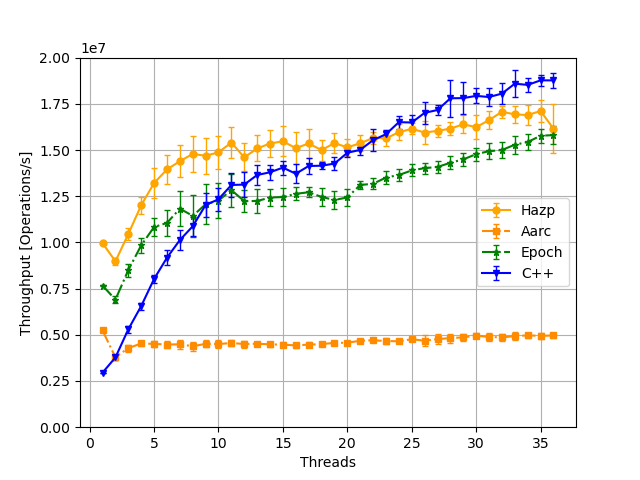
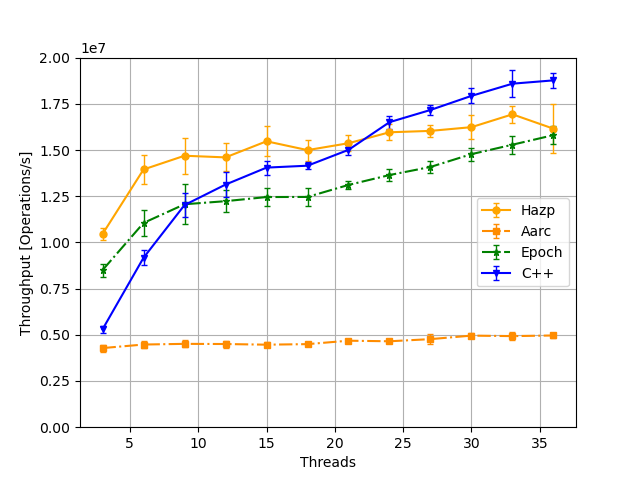
Change stride length for pairwise graphs

diff --git a/scripts/plotter.py b/scripts/plotter.py
@@ -11,6 +11,9 @@ LOG_OPS = 8
 # Values are not greater than this, used for correct y-scale
 Y_MAX = 0.2*(10**LOG_OPS)
 
+# The stride length for the pairwise graphs (to match MPMC better)
+STRIDE = 3
+
 # Used for scaling x-axis, perhpas for future use
 # MAX_THREADS = 36
 
@@ -82,7 +85,6 @@ def unique_parameter(benchmark):
         )
     [(name, value)] = params_dict.items()
     return (name, float(value))
-
 
 def main():
     parser = argparse.ArgumentParser(description=__doc__)
@@ -156,6 +158,12 @@ def main():
         else:
             color = 'blue'
             fmt = '-v'
+        
+        # Exclude uneven threads (x-axis)
+        if "pairwise" in filename:
+            mean = [mean[i] for i in range(len(parameter_values)) if parameter_values[i] % STRIDE == 0]
+            stddev = [stddev[i] for i in range(len(parameter_values)) if parameter_values[i] % STRIDE == 0]
+            parameter_values = [t for t in parameter_values if t % STRIDE == 0]
 
         plt.errorbar(
             x=parameter_values, 
